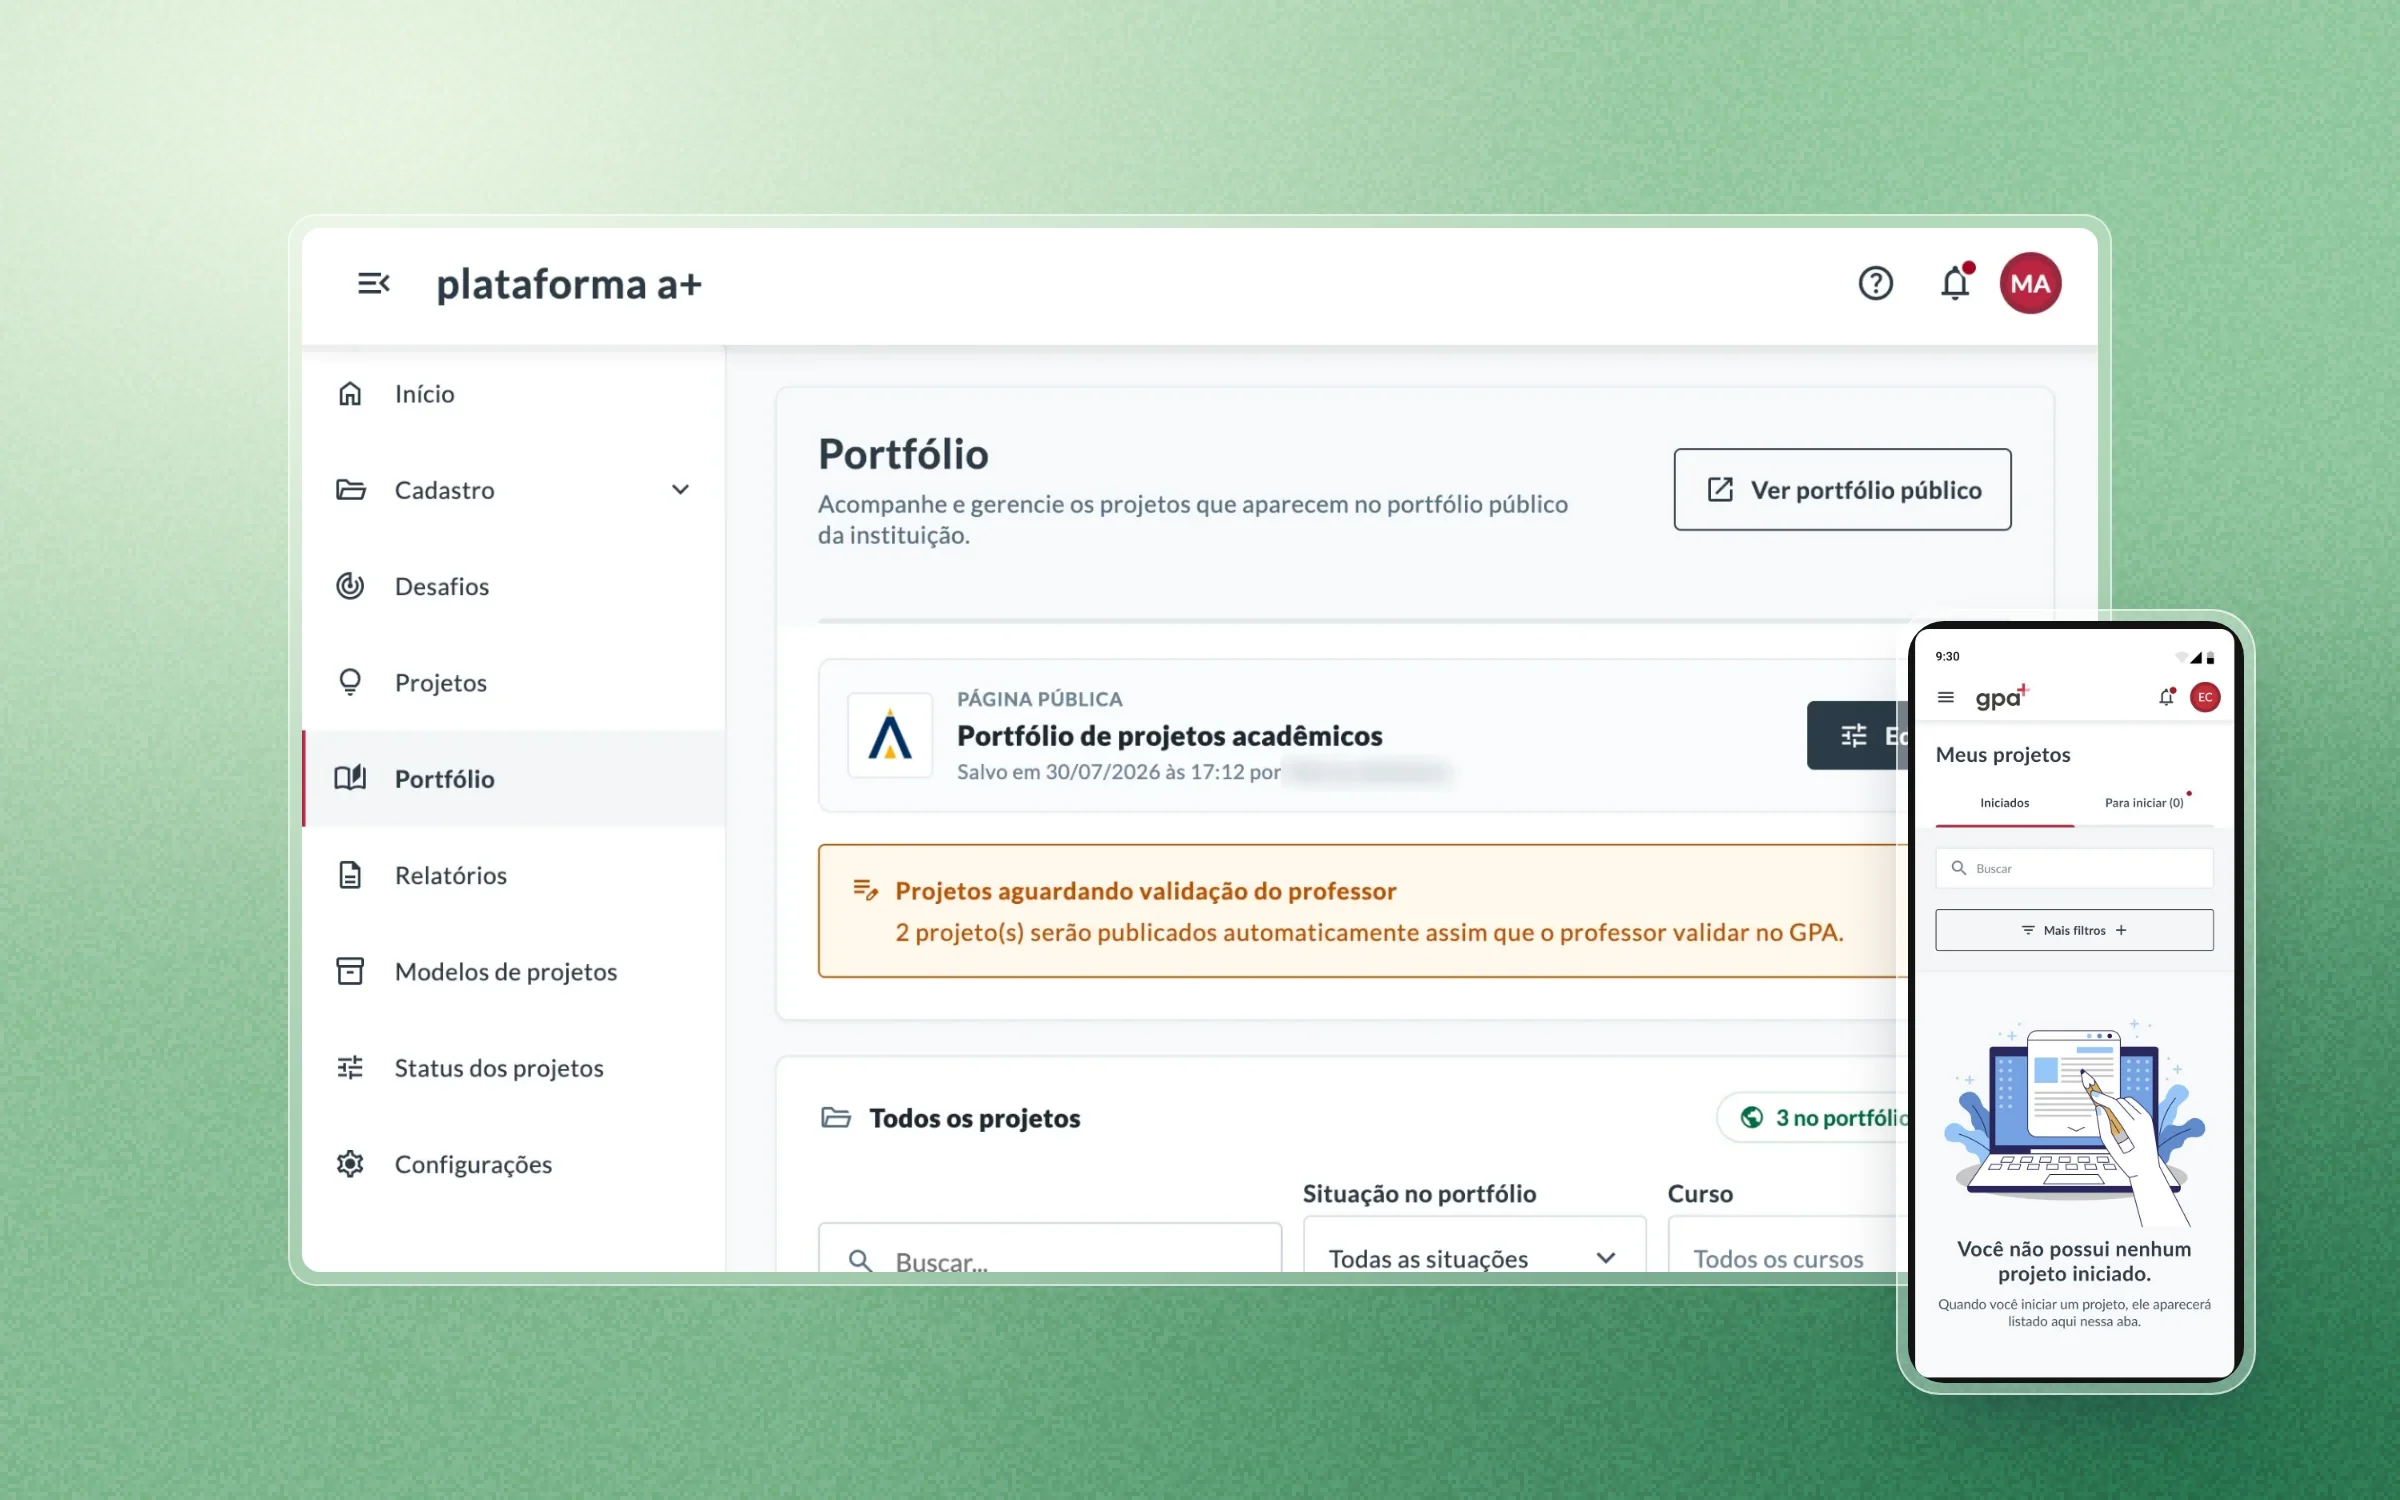
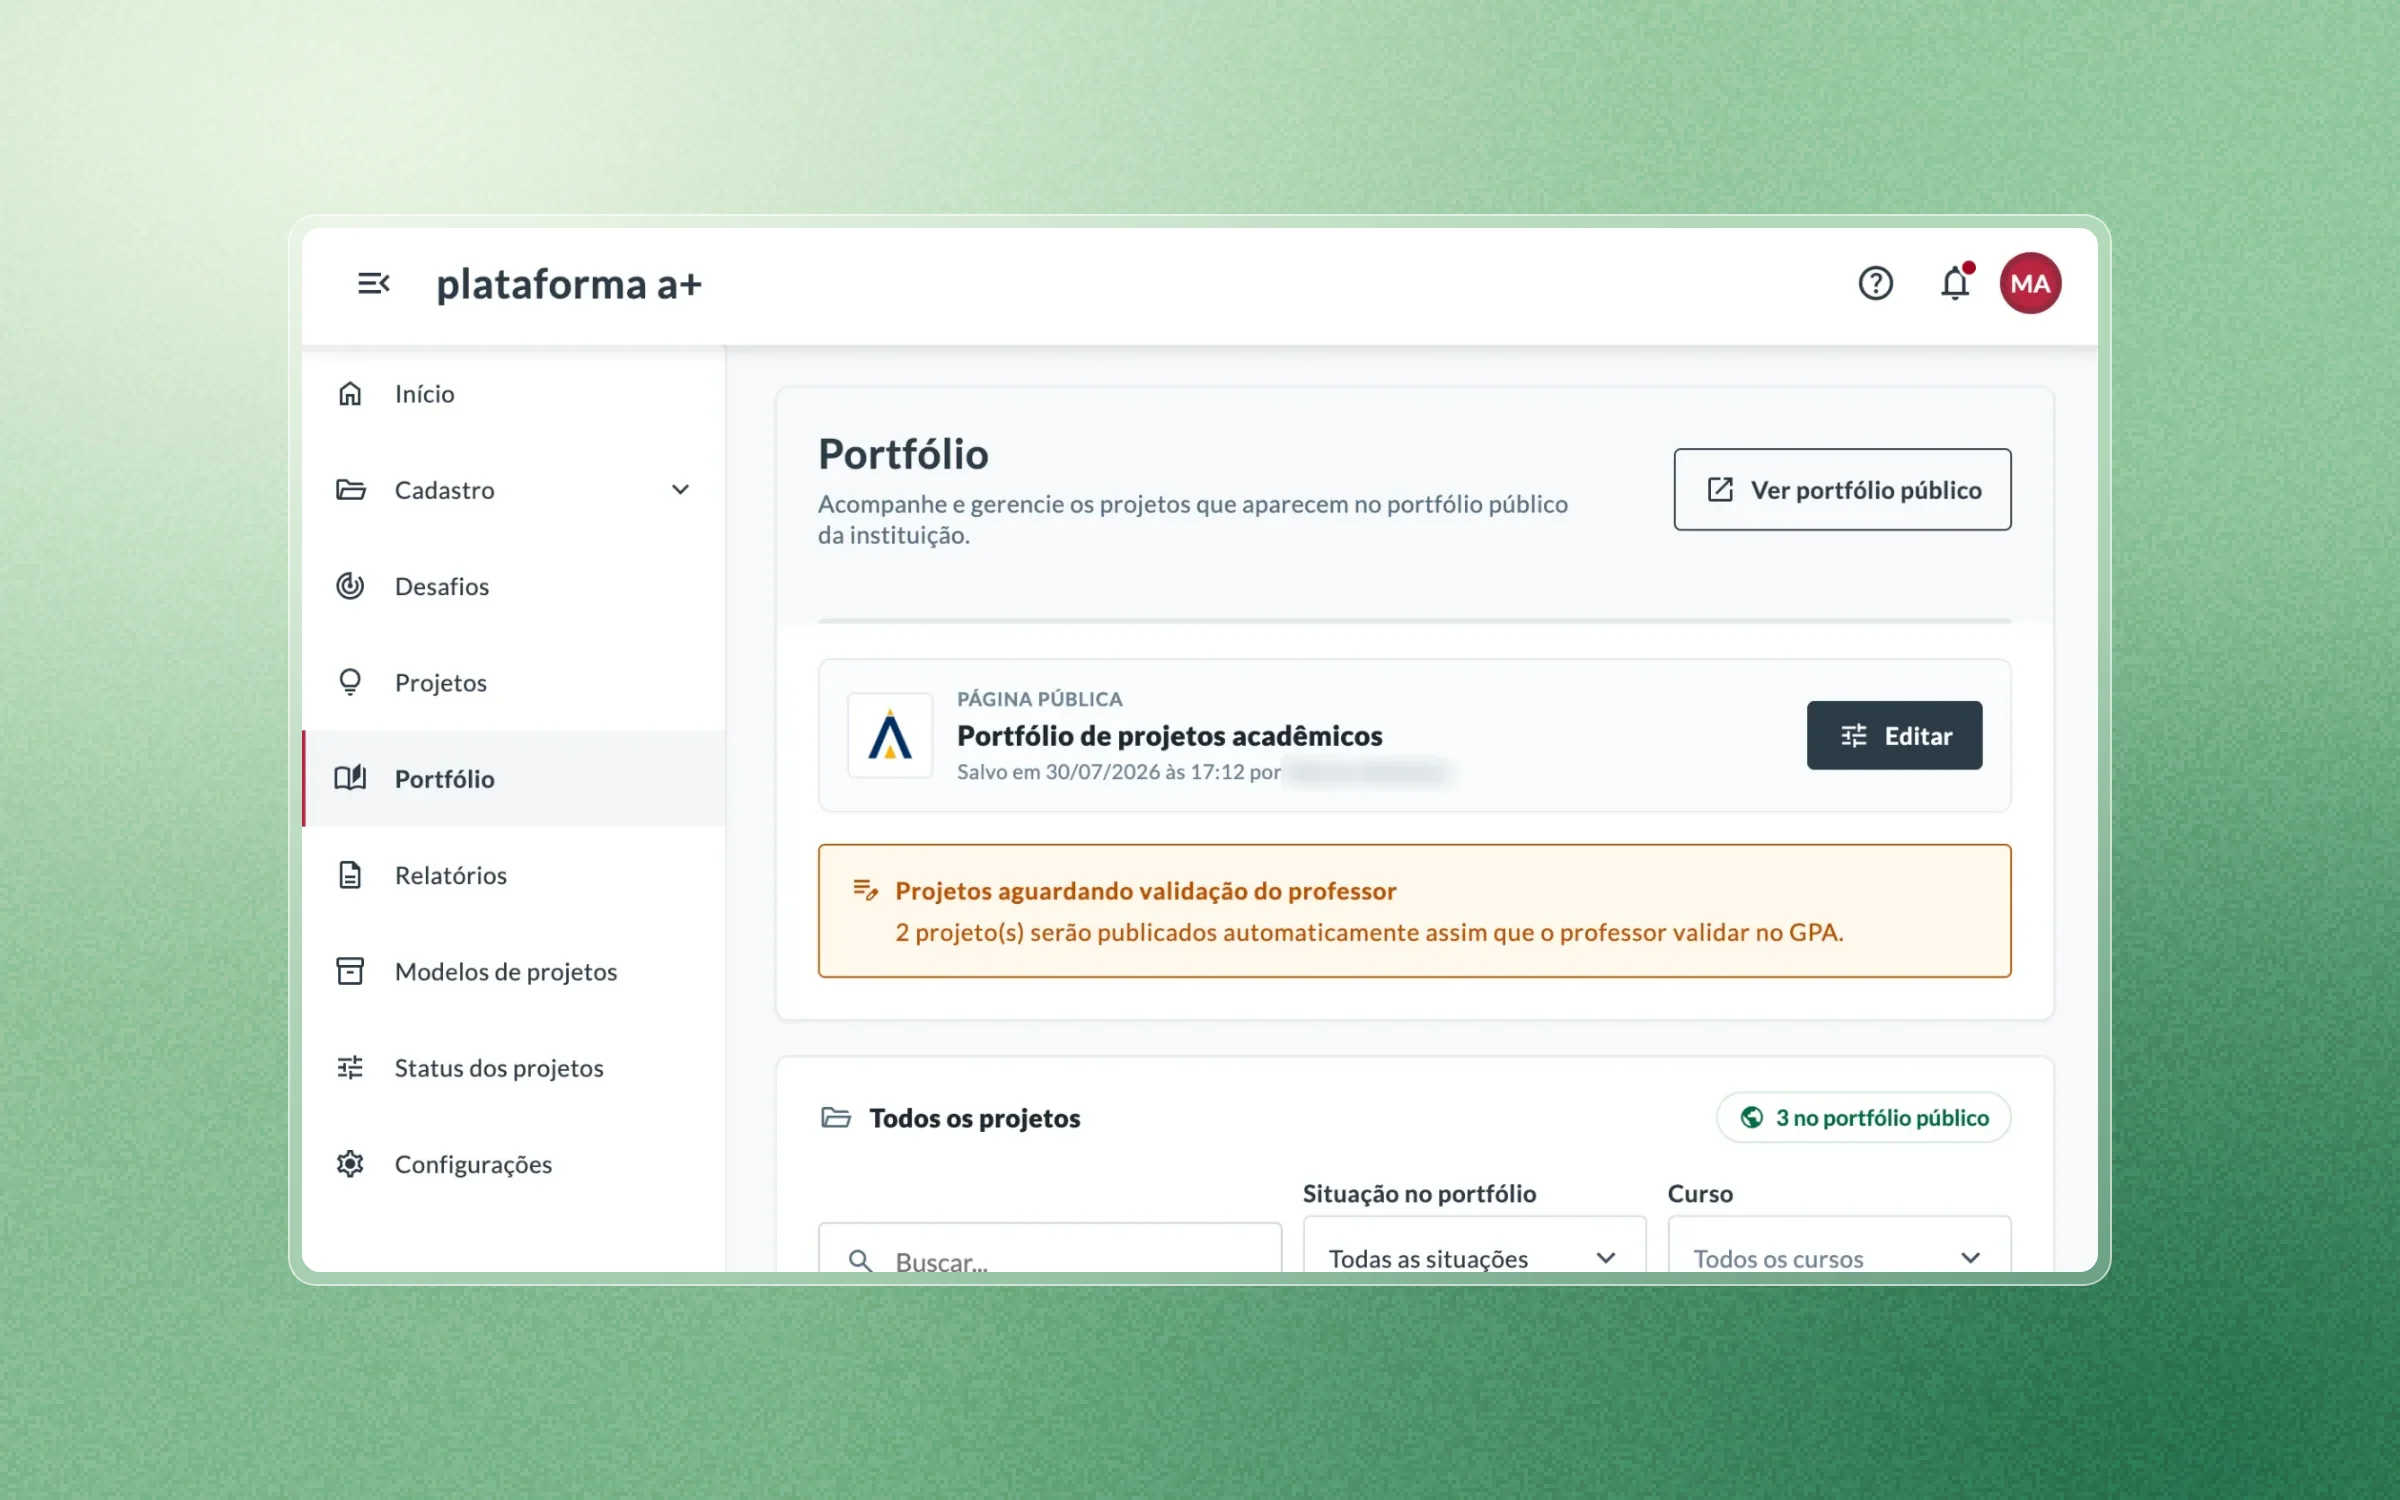
GPA: capa sem o print do celular

Changed region(s): [[0.7812, 0.3987, 0.9375, 0.9507]]

diff --git a/portfolio-sara-cerutti/work/gpa-rebuild/index.html b/portfolio-sara-cerutti/work/gpa-rebuild/index.html
@@ -71,7 +71,7 @@
     </section>
 
     <div class="v2-cover-stick">
-      <img class="v2-media" src="screens/cover-real.webp" alt="The rebuilt GPA: portfolio management on desktop and the student's project list on a phone." data-i18n-alt="coverAlt" style="aspect-ratio: 16 / 10; object-fit: cover;" />
+      <img class="v2-media" src="screens/cover-real.webp" alt="The rebuilt GPA: the portfolio management screen, with the public page, a notice about projects waiting for validation and the list of projects." data-i18n-alt="coverAlt" style="aspect-ratio: 16 / 10; object-fit: cover;" />
     </div>
 
     <div class="v2-sheet">
@@ -415,7 +415,7 @@
         title: "Evolving GPA through research with students, professors, and coordinators",
         result: "The research showed where the new experience still broke in real use, and changed the product's priority.",
         tag1: "Research", tag2: "B2B SaaS", tag4: "Multi-profile",
-        coverAlt: "The rebuilt GPA: portfolio management on desktop and the student's project list on a phone.",
+        coverAlt: "The rebuilt GPA: the portfolio management screen, with the public page, a notice about projects waiting for validation and the list of projects.",
         tldr1: "GPA was a legacy academic platform that worked for some profiles and broke for others. I ran heuristic, generative and pilot research before designing, rebuilt navigation, feedback and interface states, and used pilot evidence to move mobile up the roadmap.",
         tldr2: "Research had to happen inside a project under pressure to launch at any cost: a complex product, a team that changed direction many times, and studies left for later. When the pilot came, I used it to bring evidence back into the roadmap.",
         metaRoleL: "Role", metaTimeL: "Timeline", metaMethodsL: "Methods", metaProductL: "Product",
@@ -513,7 +513,7 @@
         title: "Evoluindo o GPA a partir de pesquisa com estudantes, professores e coordenadores",
         result: "A pesquisa mostrou onde a nova experiência ainda quebrava no uso real, e mudou a prioridade do produto.",
         tag1: "Pesquisa", tag2: "SaaS B2B", tag4: "Multiperfil",
-        coverAlt: "O GPA reconstruído: a gestão do portfólio no desktop e a lista de projetos do estudante no celular.",
+        coverAlt: "O GPA reconstruído: a tela de gestão do portfólio, com a página pública, um aviso sobre projetos aguardando validação e a lista de projetos.",
         tldr1: "O GPA era uma plataforma acadêmica legada que funcionava para alguns perfis e quebrava para outros. Conduzi pesquisa heurística, generativa e de piloto antes de desenhar, reconstruí navegação, feedback e estados de interface, e usei a evidência do piloto para subir o mobile no roadmap.",
         tldr2: "A pesquisa precisou acontecer dentro de um projeto pressionado a lançar a qualquer custo: um produto complexo, um time que mudou de direção muitas vezes e estudos deixados para depois. Quando o piloto veio, usei-o para trazer evidência de volta ao roadmap.",
         metaRoleL: "Papel", metaTimeL: "Período", metaMethodsL: "Métodos", metaProductL: "Produto",
